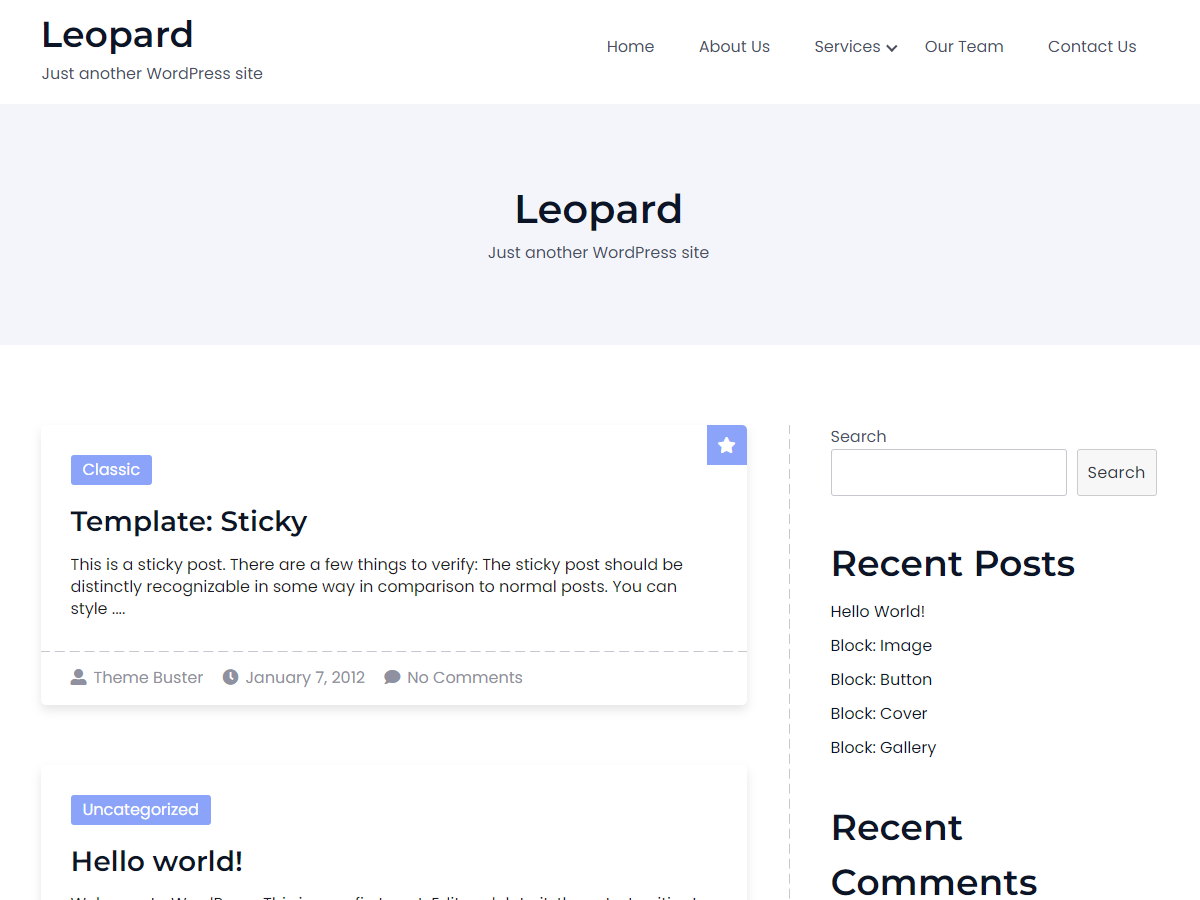
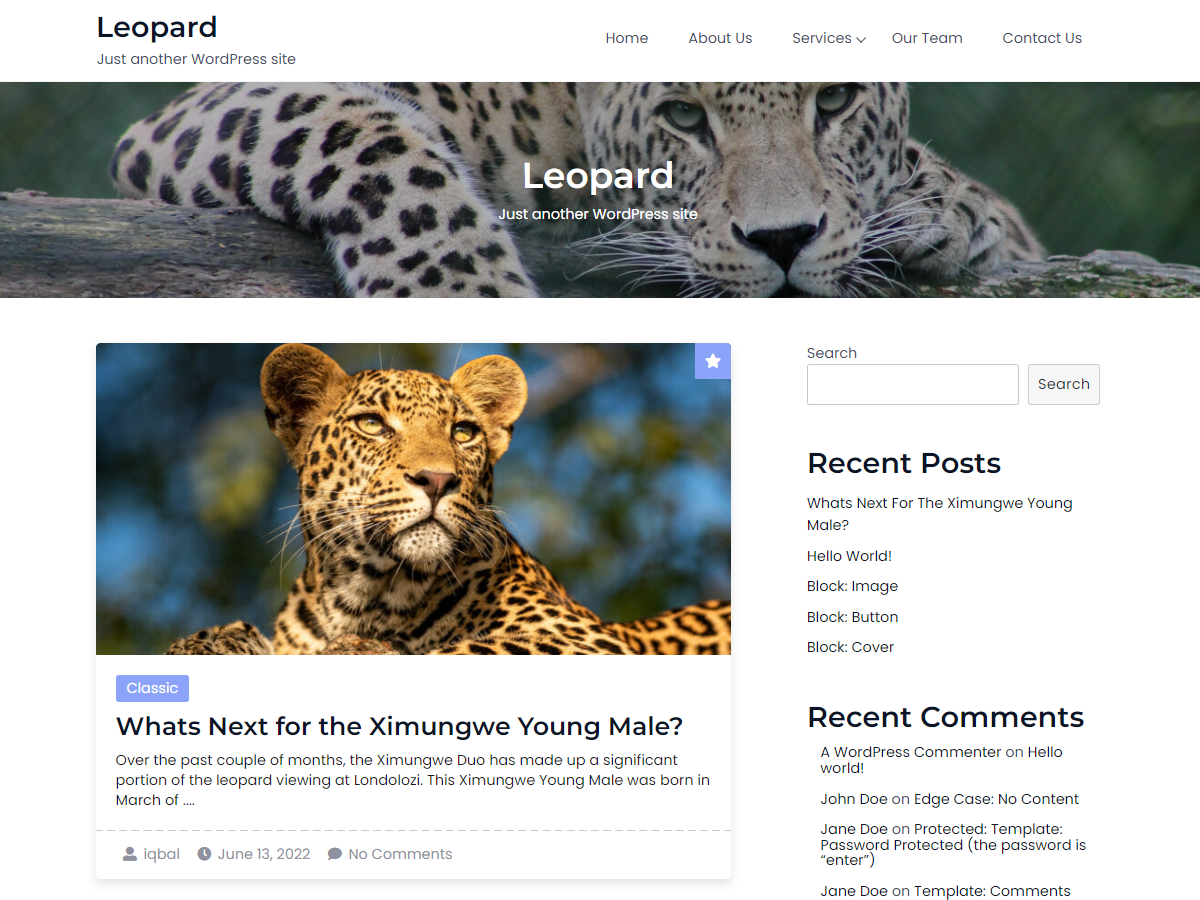
added breadcrumb overlay option in customizer

diff --git a/assets/css/leopard-style.css b/assets/css/leopard-style.css
@@ -1799,6 +1799,7 @@ textarea {
 # Breadcrumbs
 --------------------------------------------------------------*/
 .lprd-breadcrumbs-area {
+  position: relative;
   padding: 80px 0 80px;
   background-size: cover;
   background-position: center center;
@@ -1806,6 +1807,18 @@ textarea {
   z-index: 0;
   background-color: var(--color-white-lilac);
   text-align: center;
+}
+
+.lprd-breadcrumbs-area::after {
+	content: '';
+	position: absolute;
+	top: 0;
+	left: 0;
+	width: 100%;
+	height: 100%;
+	background-color: #ffffff;
+	opacity: 0;
+	z-index: -1;
 }
 
 .lprd-breadcrumbs .lprd-breadcrumbs-title {

diff --git a/inc/customizer/breadcrumb-panel.php b/inc/customizer/breadcrumb-panel.php
@@ -6,10 +6,9 @@
  * @since 1.0.0
  */
 
-add_action('customize_register', 'lprd_breadcrumb_settings_register');
+add_action( 'customize_register', 'lprd_breadcrumb_settings_register' );
 
-function lprd_breadcrumb_settings_register($wp_customize) {
-
+function lprd_breadcrumb_settings_register( $wp_customize ) {
 
 	/**
 	 * Add Additional Settings Panel
@@ -19,10 +18,10 @@ function lprd_breadcrumb_settings_register($wp_customize) {
 	$wp_customize->add_panel(
 		'lprd_breadcrumb_settings_panel',
 		array(
-			'priority' => 30,
-			'capability' => 'edit_theme_options',
+			'priority'       => 30,
+			'capability'     => 'edit_theme_options',
 			'theme_supports' => '',
-			'title' => __('Breadcrumb Settings', 'leopard'),
+			'title'          => __( 'Breadcrumb Settings', 'leopard' ),
 		)
 	);
 
@@ -34,32 +33,32 @@ function lprd_breadcrumb_settings_register($wp_customize) {
 	$wp_customize->add_section(
 		'lprd_breadcrumb_section',
 		array(
-			'title' => __('Breadcrumb', 'leopard'),
-			'description' => __('Show/Hide option for breadcrumb.', 'leopard'),
-			'priority' => 5,
-			'panel' => 'lprd_breadcrumb_settings_panel',
+			'title'       => __( 'Breadcrumb', 'leopard' ),
+			'description' => __( 'Show/Hide option for breadcrumb.', 'leopard' ),
+			'priority'    => 5,
+			'panel'       => 'lprd_breadcrumb_settings_panel',
 		)
 	);
 
 	$wp_customize->add_setting(
 		'lprd_breadcrumb_on_off',
 		array(
-			'default' => 'show',
-			'transport'  => 'refresh',
+			'default'           => 'show',
+			'transport'         => 'refresh',
 			'sanitize_callback' => 'lprd_sanitize_switch_option',
 		)
 	);
 	$wp_customize->add_control(
 		'lprd_breadcrumb_on_off',
 		array(
-			'type' => 'select',
-			'label'     => esc_html__( 'Breadcrumb Area', 'leopard' ),
-			'description'   => esc_html__( 'Show/Hide option for breadcrumb.', 'leopard' ),
-			'section' => 'lprd_breadcrumb_section',
-			'priority' => 10,
-			'choices'   => array(
-				'show'  => esc_html__( 'Show', 'leopard' ),
-				'hide'  => esc_html__( 'Hide', 'leopard' )
+			'type'        => 'select',
+			'label'       => esc_html__( 'Breadcrumb Area', 'leopard' ),
+			'description' => esc_html__( 'Show/Hide option for breadcrumb.', 'leopard' ),
+			'section'     => 'lprd_breadcrumb_section',
+			'priority'    => 10,
+			'choices'     => array(
+				'show' => esc_html__( 'Show', 'leopard' ),
+				'hide' => esc_html__( 'Hide', 'leopard' ),
 			),
 		)
 	);
@@ -72,10 +71,10 @@ function lprd_breadcrumb_settings_register($wp_customize) {
 	$wp_customize->add_section(
 		'lprd_breadcrumb_bg_section',
 		array(
-			'title' => __('Breadcrumb Background', 'leopard'),
-			'description' => __('Set the Breadcrumb background.', 'leopard'),
-			'priority' => 5,
-			'panel' => 'lprd_breadcrumb_settings_panel',
+			'title'           => __( 'Breadcrumb Background', 'leopard' ),
+			'description'     => __( 'Set the Breadcrumb background.', 'leopard' ),
+			'priority'        => 5,
+			'panel'           => 'lprd_breadcrumb_settings_panel',
 			'active_callback' => 'lprd_is_breadcrumb_show',
 		)
 	);
@@ -83,8 +82,8 @@ function lprd_breadcrumb_settings_register($wp_customize) {
 	$wp_customize->add_setting(
 		'lprd_breadcrumb_bg_clr',
 		array(
-			'default' => '#f3f5fb',
-			'transport' => 'refresh',
+			'default'           => '#f3f5fb',
+			'transport'         => 'refresh',
 			'sanitize_callback' => 'sanitize_hex_color',
 		)
 	);
@@ -93,16 +92,61 @@ function lprd_breadcrumb_settings_register($wp_customize) {
 			$wp_customize,
 			'lprd_breadcrumb_bg_clr',
 			array(
-				'label' => __('Breadcrumb Background Color', 'leopard'),
-				'section' => 'lprd_breadcrumb_bg_section',
+				'label'    => __( 'Breadcrumb Background Color', 'leopard' ),
+				'section'  => 'lprd_breadcrumb_bg_section',
 				'priority' => 10,
-			))
+			)
+		)
+	);
+
+	$wp_customize->add_setting(
+		'lprd_breadcrumb_overlay_bg_clr',
+		array(
+			'default'           => '',
+			'transport'         => 'refresh',
+			'sanitize_callback' => 'sanitize_hex_color',
+		)
+	);
+	$wp_customize->add_control(
+		new WP_Customize_Color_Control(
+			$wp_customize,
+			'lprd_breadcrumb_overlay_bg_clr',
+			array(
+				'label'    => __( 'Breadcrumb Overlay Color', 'leopard' ),
+				'section'  => 'lprd_breadcrumb_bg_section',
+				'priority' => 10,
+			)
+		)
+	);
+
+	$wp_customize->add_setting(
+		'lprd_breadcrumb_overlay_opacity',
+		array(
+			'default'           => '0.3',
+			'transport'         => 'refresh',
+			'sanitize_callback' => 'lprd_copyright_html',
+		)
+	);
+
+	$wp_customize->add_control(
+		'lprd_breadcrumb_overlay_opacity',
+		array(
+			'type'        => 'number',
+			'input_attrs' => array(
+				'min'  => 0,
+				'max'  => 1,
+				'step' => .1,
+			),
+			'label'       => __( 'Breadcrumb Overlay Opacity', 'leopard' ),
+			'section'     => 'lprd_breadcrumb_bg_section',
+			'priority'    => 10,
+		)
 	);
 
 	$wp_customize->add_setting(
 		'lprd_breadcrumb_bg_img',
 		array(
-			'default' => '',
+			'default'           => '',
 			'sanitize_callback' => 'esc_url_raw',
 		)
 	);
@@ -111,10 +155,11 @@ function lprd_breadcrumb_settings_register($wp_customize) {
 			$wp_customize,
 			'lprd_breadcrumb_bg_img',
 			array(
-				'label'      => __( 'Breadcrumb Background Image', 'leopard' ),
-				'section'    => 'lprd_breadcrumb_bg_section',
-				'priority'   => 10,
-			) )
+				'label'    => __( 'Breadcrumb Background Image', 'leopard' ),
+				'section'  => 'lprd_breadcrumb_bg_section',
+				'priority' => 10,
+			)
+		)
 	);
 
 	/**
@@ -125,10 +170,10 @@ function lprd_breadcrumb_settings_register($wp_customize) {
 	$wp_customize->add_section(
 		'lprd_breadcrumb_clr_section',
 		array(
-			'title' => __('Breadcrumb Color', 'leopard'),
-			'description' => __('Set the Breadcrumb Color.', 'leopard'),
-			'priority' => 5,
-			'panel' => 'lprd_breadcrumb_settings_panel',
+			'title'           => __( 'Breadcrumb Color', 'leopard' ),
+			'description'     => __( 'Set the Breadcrumb Color.', 'leopard' ),
+			'priority'        => 5,
+			'panel'           => 'lprd_breadcrumb_settings_panel',
 			'active_callback' => 'lprd_is_breadcrumb_show',
 		)
 	);
@@ -136,8 +181,8 @@ function lprd_breadcrumb_settings_register($wp_customize) {
 	$wp_customize->add_setting(
 		'lprd_breadcrumb_txt_clr',
 		array(
-			'default' => '#0c1428',
-			'transport' => 'refresh',
+			'default'           => '#0c1428',
+			'transport'         => 'refresh',
 			'sanitize_callback' => 'sanitize_hex_color',
 		)
 	);
@@ -146,17 +191,18 @@ function lprd_breadcrumb_settings_register($wp_customize) {
 			$wp_customize,
 			'lprd_breadcrumb_txt_clr',
 			array(
-				'label' => __('Breadcrumb Text Color', 'leopard'),
-				'section' => 'lprd_breadcrumb_clr_section',
+				'label'    => __( 'Breadcrumb Text Color', 'leopard' ),
+				'section'  => 'lprd_breadcrumb_clr_section',
 				'priority' => 10,
-			))
+			)
+		)
 	);
 
 	$wp_customize->add_setting(
 		'lprd_breadcrumb_txt_hvr_clr',
 		array(
-			'default' => '#8BA4F9',
-			'transport' => 'refresh',
+			'default'           => '#8BA4F9',
+			'transport'         => 'refresh',
 			'sanitize_callback' => 'sanitize_hex_color',
 		)
 	);
@@ -165,13 +211,11 @@ function lprd_breadcrumb_settings_register($wp_customize) {
 			$wp_customize,
 			'lprd_breadcrumb_txt_hvr_clr',
 			array(
-				'label' => __('Breadcrumb Anchor Hover Color', 'leopard'),
-				'section' => 'lprd_breadcrumb_clr_section',
+				'label'    => __( 'Breadcrumb Anchor Hover Color', 'leopard' ),
+				'section'  => 'lprd_breadcrumb_clr_section',
 				'priority' => 10,
-			))
+			)
+		)
 	);
-
-
-
 
 } //Footer panel close

diff --git a/inc/theme-scripts.php b/inc/theme-scripts.php
@@ -127,6 +127,8 @@ class LPRD_Enqueue_Scripts {
 		//Breadcrumb style
 		$breadcrumb_bg_img = get_theme_mod( 'lprd_breadcrumb_bg_img' );
 		$breadcrumb_bg_clr = get_theme_mod( 'lprd_breadcrumb_bg_clr' );
+		$breadcrumb_overlay_bg_clr = get_theme_mod( 'lprd_breadcrumb_overlay_bg_clr' );
+		$breadcrumb_overlay_opacity = get_theme_mod( 'lprd_breadcrumb_overlay_opacity' );
 		$breadcrumb_txt_clr = get_theme_mod( 'lprd_breadcrumb_txt_clr' );
 		$breadcrumb_txt_hvr_clr = get_theme_mod( 'lprd_breadcrumb_txt_hvr_clr' );
 		if ( ! empty( $breadcrumb_bg_img ) ) {
@@ -137,6 +139,16 @@ class LPRD_Enqueue_Scripts {
 		if ( ! empty( $breadcrumb_bg_clr ) ) {
 			$custom_css .= '
 					.lprd-breadcrumbs-area {background-color: ' . esc_attr( $breadcrumb_bg_clr ) . '; }
+				';
+		}
+		if ( ! empty( $breadcrumb_overlay_bg_clr ) ) {
+			$custom_css .= '
+					.lprd-breadcrumbs-area:after {background-color: ' . esc_attr( $breadcrumb_overlay_bg_clr ) . '; }
+				';
+		}
+		if ( ! empty( $breadcrumb_overlay_opacity ) ) {
+			$custom_css .= '
+					.lprd-breadcrumbs-area:after {opacity: ' . esc_attr( $breadcrumb_overlay_opacity ) . '; }
 				';
 		}
 		if ( ! empty( $breadcrumb_txt_clr ) ) {

diff --git a/footer.php b/footer.php
@@ -31,10 +31,11 @@
 						if($copyright_txt):
 							echo wpautop(lprd_allowed_html($copyright_txt));
 						?>
-						<?php
-						else:
-							print( esc_html__( 'Leopard', 'leopard' ) );
-						?>
+						<?php else: ?>
+							<?php
+							/* translators: 1: Theme name, 2: Theme author. */
+							printf( esc_html__( 'Theme: %1$s by %2$s', 'leopard' ), 'Leopard', '<a href="http://www.iqbalrony.com/">iqbalrony</a>' );
+							?>
 						<?php endif; ?>
 					</div><!-- .site-info -->
 				</div>
